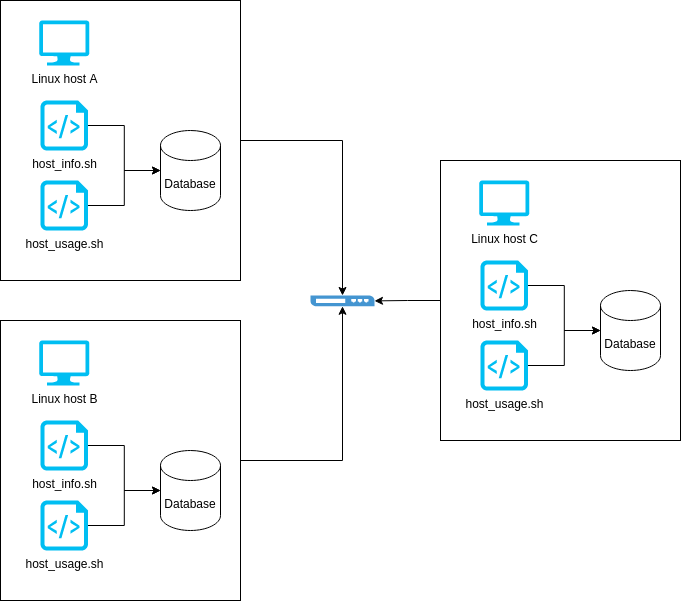
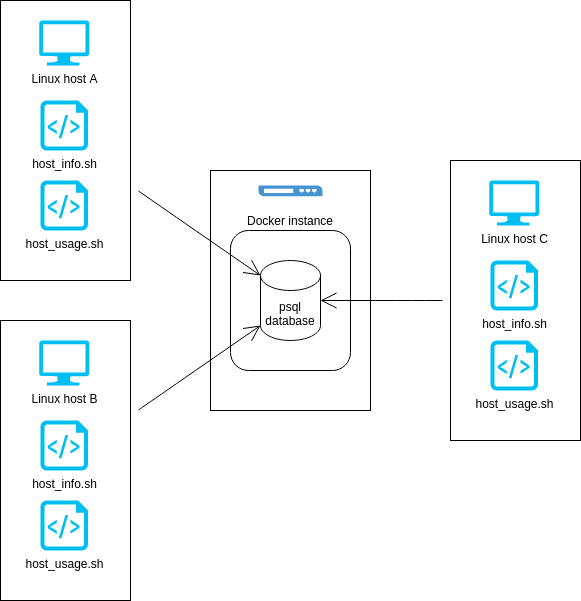
Updated README and minor update to ddl.sql

diff --git a/linux_sql/README.md b/linux_sql/README.md
@@ -4,10 +4,22 @@ This project is under development. Since this project follows the GitFlow, the f
 # Introduction
 The purpose of this project is to design a basic program for recording hardware specifications of nodes in a Linux cluster and monitoring their resource usages in real time and inserting into a database. This is implemented using a ` psql` instance and bash agents on each node that run two scripts for collecting hardware info and monitoring resource usage with the use of `crontab`.
 
+# Quick Start
+1. A `psql` instance is created using `psql_docker.sh`: `./scripts/psql_docker.sh create db_username db_password`
+   1. Once created the instance can be stopped and started using `./scripts/psql_docker.sh start|stop`
+   2. Default username and password are postgres and password
+2. Create `host_agent` database and `host_info` and `host_usage` tables with `psql -h localhost -U postgres -d host_agent -f sql/ddl.sql`
+3. Enter host info with `bash /scripts/host_info.sh "localhost" 5432 "host_agent" "postgres" "password"`
+4. Enter host usage info manually with `bash /scripts/host_usage.sh "localhost" 5432 "host_agent" "postgres" "password"`
+5. Automate host usage entries using `crontab`: `* * * * * bash /home/centos/dev/jarvis_data_eng_NiharSheth/linux_sql/scripts/host_usage.sh "localhost" 5432 "host_agent" "postgres" "password" > /tmp/host_usage.log`
+
 ## Architecture
 ![my image](./assets/cluster_diagram.png)
 
 ## Scripts
+* `psql_docker.sh `- This script can create, stop or start a docker instance running psql. This is the central database that all hosts send information to. When creating the instance a username and password is passed.
+
+
 * `host_info.sh` - This script collects hardware information and inserts into the database. The following data is captured:
   * The host name 
   * Number of CPUs 
@@ -28,9 +40,26 @@ The purpose of this project is to design a basic program for recording hardware 
   * Available disk space at the root directory in MB
 
 ## Database Modeling
+Two tables are used to keep track of data, `host_info` which contains static data on the host's specs and `host_usage` which is updated every minute with current resource usages for each connected host.
+
+`host_info`
+
+| id | hostname | cpu_number | cpu_architecture | cpu_model | cpu_mhz | l2_cache | total_mem | timestamp_info |
+| --- | --- | --- | --- | --- | --- | --- | --- | --- |
+Auto-incrementing integer ID number. | Unique varchar name of host. | Integer count of CPUs. | CPU architecture stored as a varchar. | CPU model as varchar. | CPU frequency as double precision. | L2 cache as varchar. | Total memory as varchar. | Timestamp at moment of data collection as timestamp. |
+
+host_usage
+
+| timestamp_usage | host_id | memory_free | cpu_idle | cpu_kernel | disk_io | disk_available |
+| --- | --- | --- | --- | --- | --- | --- |
+| Timestamp at moment of data collection as timestamp. | Foreign key ID based on `host_usage` ID | Free memory as varchar. | CPU idle percentage as integer. | CPU kernel percentage as integer. | Number of disk I/Os as integer. | Available disk space at root as varchar. |
 
 # Test
+DDL commands were tested to check that the appropriate variable type was selected for all the data. The DML queries were tested within the `psql` instance to check if data was being entered correctly, and then it was automated using `crontab`. Entries were allowed to accumulate for a while to ensure that they were coming in every minute. 
+
 
 # Deployment
+The application was deployed within a virtual machine running CentOS 7 using a `docker` instance to hold the `psql` database and `crontab` to automate regular host usage data collection.
 
 # Improvements
+At the moment the data collected within `host_info` is static, it is presumed that the hardware for each host will not change. In the future the DDL and DML scripts could be updated to handle any changes in hardware. `host_usage` could also be updated to collect more resource data such as network data for each host.
